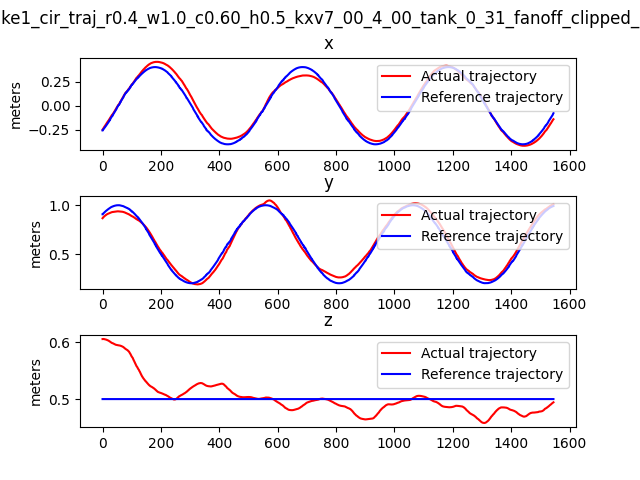
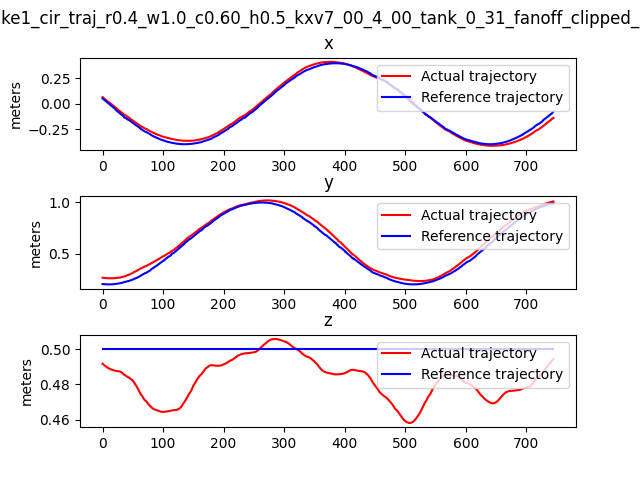
new threshold for fanoff trajectory

diff --git a/GP/gp_advanced/animate_trajectory_individual.py b/GP/gp_advanced/animate_trajectory_individual.py
@@ -36,7 +36,7 @@ trajectory = ax.scatter( x[0], y[0], z[0], c = 'brown', s=20, alpha = 0.5, label
 ax.legend()
 T = x.shape[0]
 metadata = dict(title='Movie Test', artist='Matplotlib',comment='Movie support!')
-name = '.mp4'
+name = specifier+'.mp4'
 writer = FFMpegWriter(fps=15, metadata=metadata)
 with writer.saving(fig, 'animated_plots/'+name, 100):
     for t in range(T):

diff --git a/GP/gp_advanced/plot_trajectory_ref.py b/GP/gp_advanced/plot_trajectory_ref.py
@@ -247,7 +247,7 @@ with Reader(bag_path) as reader:
 # print("z min: ", min(z_data))
 assert len(x_data) == len(y_data) == len(z_data), "Lengths of the lists are not the same."
 cutoff = len(x_data) - 1000
-threshold = 200
+threshold = 1000
 
 
 print("cutoff, threshold = ", cutoff, threshold)
